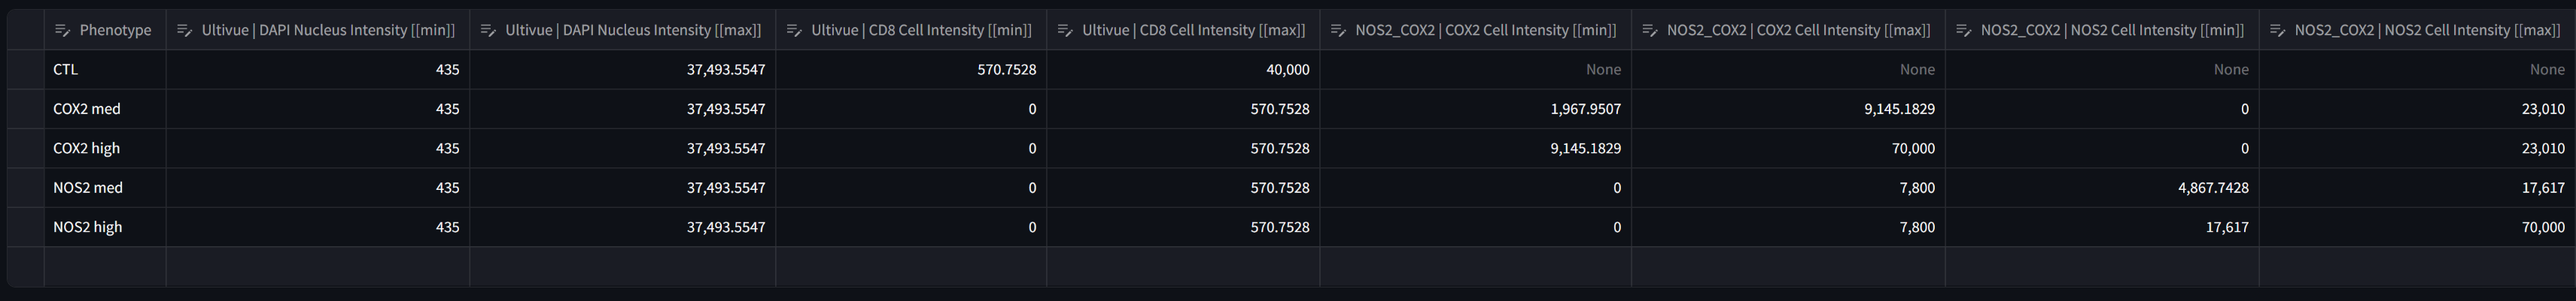
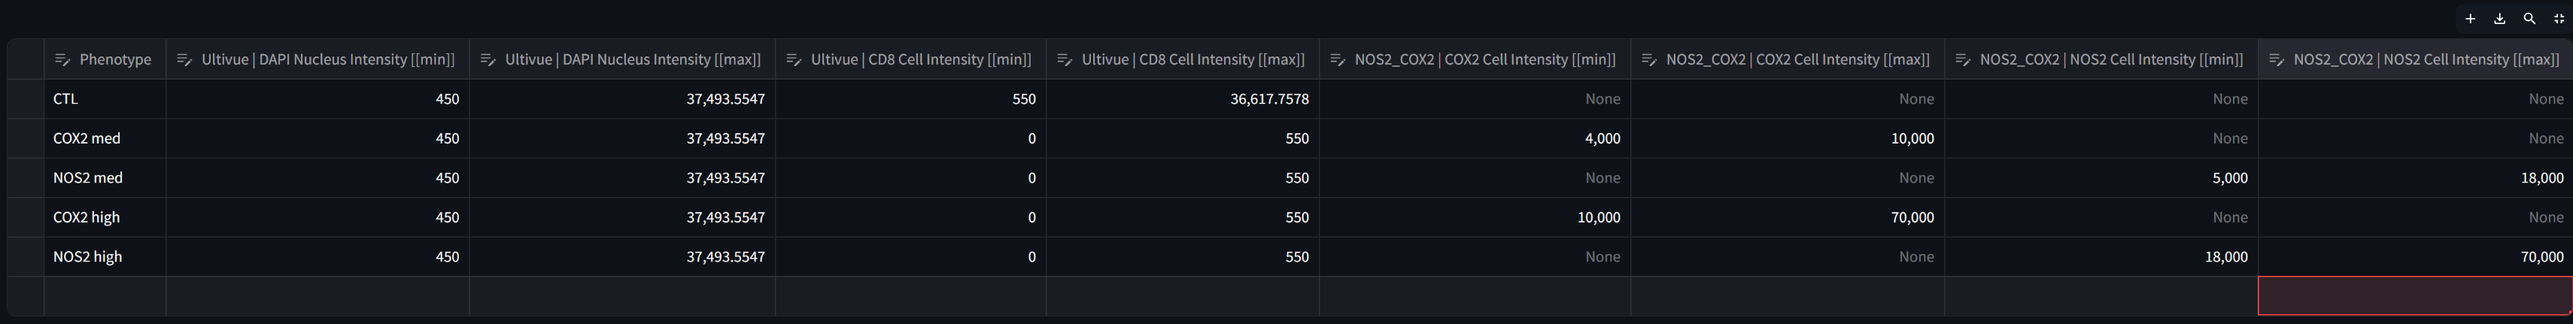
Do better raw intensities phenotyping

diff --git a/session_1/session_1.md b/session_1/session_1.md
@@ -328,7 +328,7 @@ Press the "Add column filter to current phenotype" button to add the thresholded
 
 ![add_dapi_threshold](reduced/add_dapi_threshold.png)
 
-Note that the "Column for filtering:" resets (since "Ultivue | DAPI Nucleus Intensity" has already been thresholded) and the "2⃣ Current phenotype:" section updates with the new column and its thresholds. We can refine the thresholds by editing the "2⃣ Current phenotype:" table directly. (We did this here, changing the lower bound from 469.51 to 435.)
+Note that the "Column for filtering:" resets (since "Ultivue | DAPI Nucleus Intensity" has already been thresholded) and the "2⃣ Current phenotype:" section updates with the new column and its thresholds. We can refine the thresholds by editing the "2⃣ Current phenotype:" table directly. (We did this here, changing the lower bound from 469.51 to 450.)
 
 Let us define a T cell as any cell having high CD8 intensity:
 
@@ -336,7 +336,7 @@ Let us define a T cell as any cell having high CD8 intensity:
 
 Note we have first zoomed in on the histogram by selecting the Zoom radio button and selecting on the histogram that way. Then we switched back to "Positivity identification" and selected the second peak (and higher) in the histogram.
 
-Press the "Add column filter to current phenotype" button to add the thresholded column to the current phenotype defined in section "2⃣ Current phenotype", and refine the upper bound to 40,000 since we could not select that high on the zoomed-in histogram:
+Press the "Add column filter to current phenotype" button to add the thresholded column to the current phenotype defined in section "2⃣ Current phenotype":
 
 ![add_cd8_threshold](reduced/add_cd8_threshold.png)
 
